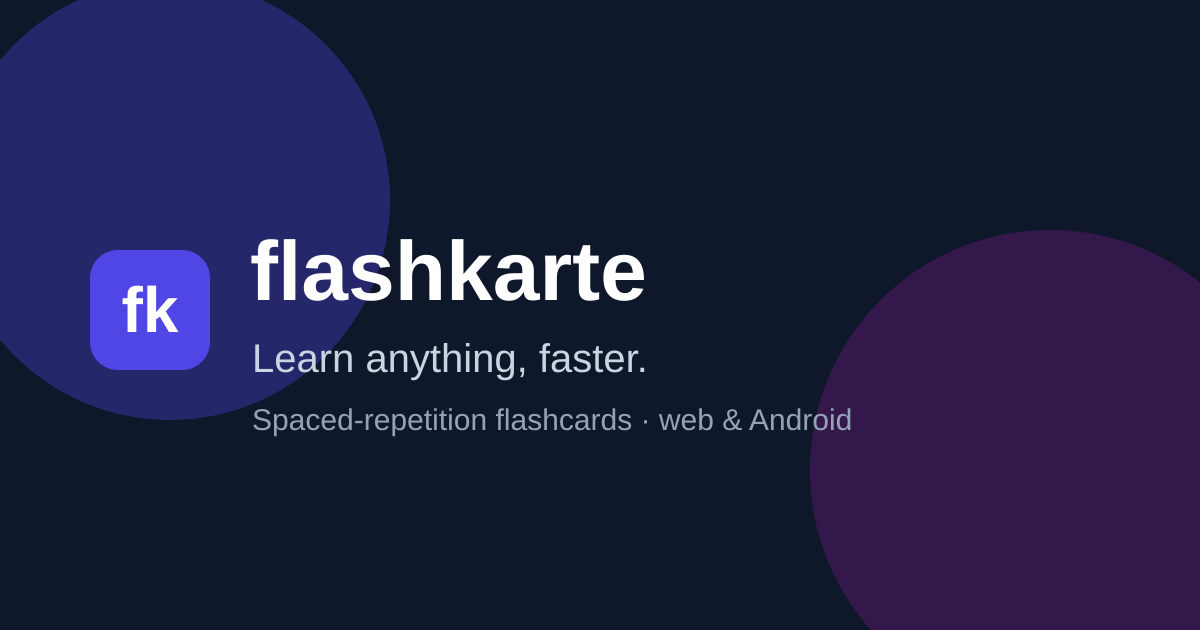
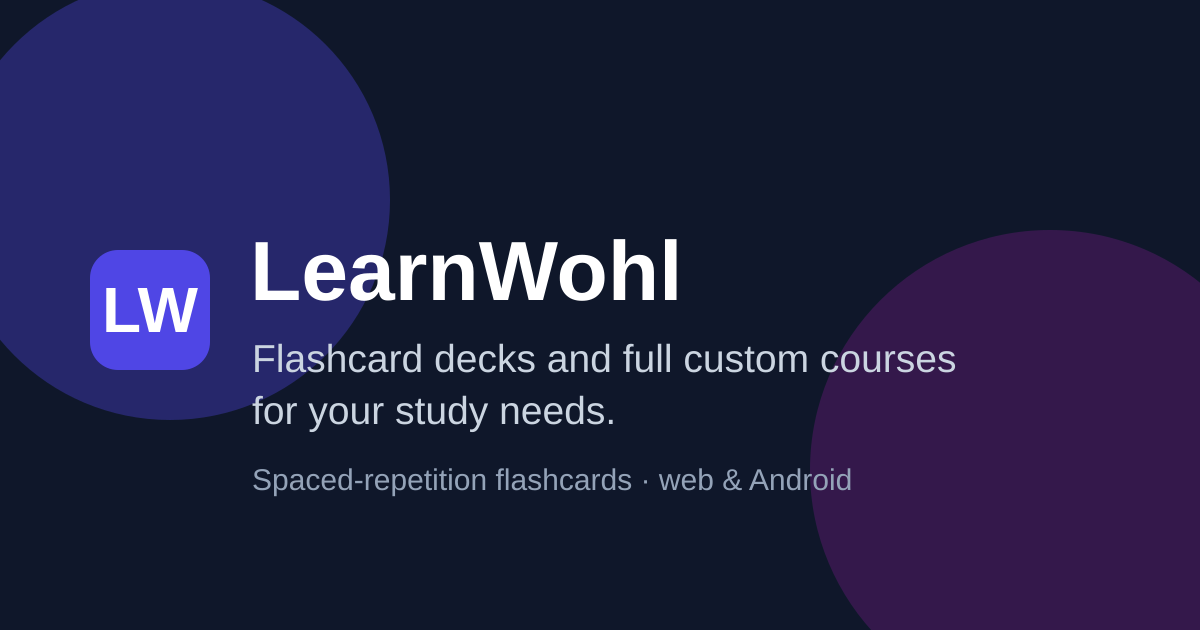
Rename landing page to LearnWohl

diff --git a/packages/server/src/seo/meta.ts b/packages/server/src/seo/meta.ts
@@ -26,9 +26,9 @@ const PAGES: Record<
   { title: string; description: string; jsonLd?: boolean }
 > = {
   "/": {
-    title: "flashkarte — Learn anything with spaced-repetition flashcards",
+    title: "LearnWohl — Flashcard decks and full custom courses",
     description:
-      "flashkarte is a free spaced-repetition flashcard app. Write decks in plain Markdown or let your own AI build them, and study on web and Android — always in sync.",
+      "Flashcard decks and full custom courses for your study needs.",
     jsonLd: true,
   },
   "/explore": {
@@ -72,7 +72,7 @@ export function staticMeta(path: string): PageMeta {
     meta.jsonLd = {
       "@context": "https://schema.org",
       "@type": "WebApplication",
-      name: "flashkarte",
+      name: "LearnWohl",
       url: abs("/"),
       description: page.description,
       applicationCategory: "EducationalApplication",

diff --git a/packages/server/src/seo/meta.test.ts b/packages/server/src/seo/meta.test.ts
@@ -7,8 +7,11 @@ describe("staticMeta", () => {
     expect(m.og.url).toBe(m.canonical);
     expect(m.og.image).toBe("https://flashkarte.christopherrehm.de/og.png");
     expect(m.jsonLd).toMatchObject({ "@type": "WebApplication" });
-    expect(m.title.length).toBeGreaterThan(10);
-    expect(m.description.length).toBeGreaterThan(20);
+    expect(m.title).toBe("LearnWohl — Flashcard decks and full custom courses");
+    expect(m.description).toBe(
+      "Flashcard decks and full custom courses for your study needs.",
+    );
+    expect(m.jsonLd).toMatchObject({ name: "LearnWohl" });
   });
   it("privacy and impressum have their own canonical, no JSON-LD", () => {
     expect(staticMeta("/privacy").canonical).toBe(

diff --git a/packages/web/src/pages/LandingPage.tsx b/packages/web/src/pages/LandingPage.tsx
@@ -95,9 +95,9 @@ const FLOATERS = [
 
 export function LandingPage() {
   useDocumentHead({
-    title: "flashkarte — Learn anything with spaced-repetition flashcards",
+    title: "LearnWohl — Flashcard decks and full custom courses",
     description:
-      "flashkarte is a free spaced-repetition flashcard app. Write decks in plain Markdown, or hand it to your own AI — it already knows how the app works, and can build a graduated course from a textbook chapter or your notes. Study on web and Android, always in sync.",
+      "Flashcard decks and full custom courses for your study needs.",
   });
   return (
     <div className="relative min-h-screen overflow-hidden bg-slate-950 text-slate-100">

diff --git a/packages/web/index.html b/packages/web/index.html
@@ -5,7 +5,7 @@
     <meta name="viewport" content="width=device-width, initial-scale=1.0" />
     <link rel="icon" type="image/svg+xml" href="/favicon.svg" />
     <link rel="describedby" type="text/plain" href="/llms.txt" />
-    <title>flashkarte</title>
+    <title>LearnWohl</title>
     <!-- External (not inline) so it's allowed by the production CSP
          `script-src 'self'`; restores the saved theme before paint. -->
     <script src="/theme-init.js"></script>

diff --git a/packages/web/src/pages/landing/LandingHero.tsx b/packages/web/src/pages/landing/LandingHero.tsx
@@ -6,7 +6,7 @@ export function LandingHero() {
   return (
     <div className="text-center">
       <div className="mx-auto mb-6 flex h-14 w-14 items-center justify-center rounded-2xl bg-indigo-600 text-2xl font-bold text-white shadow-lg shadow-indigo-900/50">
-        fk
+        LW
       </div>
       <h1 className="text-4xl font-extrabold tracking-tight text-white sm:text-5xl">
         {t("landing.heroTitle")}
